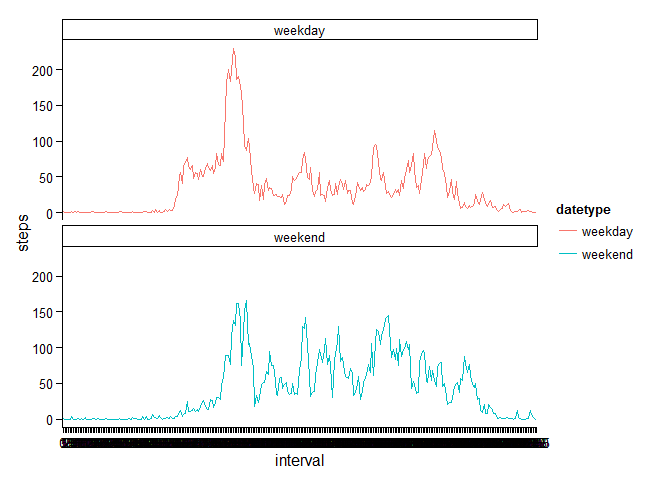
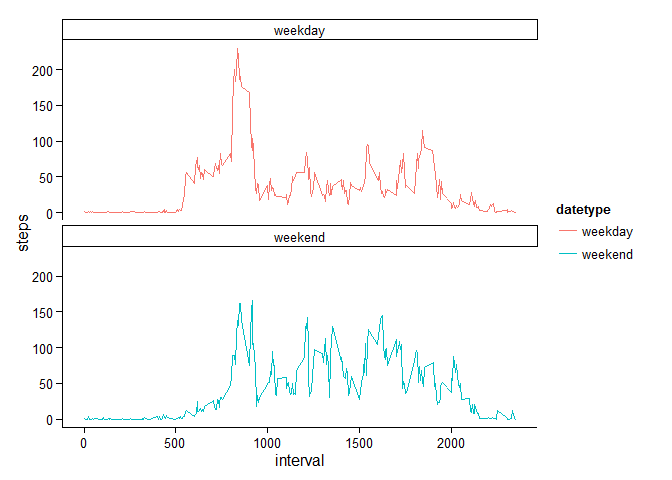
minor change
removed the change of intervals to factors, as they were unnecessary

diff --git a/PA1_template.html b/PA1_template.html
@@ -77,9 +77,8 @@ require(dplyr)
 require(ggplot2)</code></pre>
 <p>Reading in the zipped data directly from the repo:</p>
 <pre class="r"><code>data &lt;- read.csv(unz(&quot;activity.zip&quot;, &quot;activity.csv&quot;))</code></pre>
-<p>and changing the date column to dates (using the ymd function from lubridate) and converting the intervals to factors:</p>
-<pre class="r"><code>data$date &lt;- ymd(data$date)
-data$interval &lt;- as.factor(data$interval)</code></pre>
+<p>and changing the date column to dates (using the ymd function from lubridate):</p>
+<pre class="r"><code>data$date &lt;- ymd(data$date)</code></pre>
 <p>(the intervals are coded in the following way: last two digits represent minutes into the hour beginning indicates the hour of the day;<br />0am –&gt; 0 to 55;<br />11pm: 2300 to 2355)</p>
 </div>
 <div id="what-is-mean-total-number-of-steps-taken-per-day" class="section level2">
@@ -107,7 +106,7 @@ hist(stepsperday$steps,
         group_by(interval) %&gt;%
         summarise(avg_steps = mean(steps, na.rm = T))</code></pre>
 <p>We can then plot the number of steps per interval:</p>
-<pre class="r"><code>plot(x= as.numeric(as.character(stepsperinterval$interval)),
+<pre class="r"><code>plot(x= stepsperinterval$interval,
      y= stepsperinterval$avg_steps, 
      type = &quot;l&quot;,
      main = &quot;number of steps during an average day&quot;,
@@ -122,22 +121,21 @@ axis(side = 1, at = seq(0, 2400, by = 100))</code></pre>
 indexmaxinterval</code></pre>
 <pre><code>## [1] 104</code></pre>
 <pre class="r"><code>stepsperinterval$interval[indexmaxinterval]</code></pre>
-<pre><code>## [1] 835
-## 288 Levels: 0 5 10 15 20 25 30 35 40 45 50 55 100 105 110 115 120 ... 2355</code></pre>
+<pre><code>## [1] 835</code></pre>
 <p>Hence, at the 104th’s interval, corresponding to 835, at 8:35 am, most steps are taken on average.</p>
 </div>
 <div id="imputing-missing-values" class="section level2">
 <h2>Imputing missing values</h2>
 <p><code>summary(data)</code> shows that 2304 values are missing:</p>
 <pre class="r"><code>summary(data)</code></pre>
-<pre><code>##      steps             date               interval    
-##  Min.   :  0.00   Min.   :2012-10-01   0      :   61  
-##  1st Qu.:  0.00   1st Qu.:2012-10-16   5      :   61  
-##  Median :  0.00   Median :2012-10-31   10     :   61  
-##  Mean   : 37.38   Mean   :2012-10-31   15     :   61  
-##  3rd Qu.: 12.00   3rd Qu.:2012-11-15   20     :   61  
-##  Max.   :806.00   Max.   :2012-11-30   25     :   61  
-##  NA's   :2304                          (Other):17202</code></pre>
+<pre><code>##      steps             date               interval     
+##  Min.   :  0.00   Min.   :2012-10-01   Min.   :   0.0  
+##  1st Qu.:  0.00   1st Qu.:2012-10-16   1st Qu.: 588.8  
+##  Median :  0.00   Median :2012-10-31   Median :1177.5  
+##  Mean   : 37.38   Mean   :2012-10-31   Mean   :1177.5  
+##  3rd Qu.: 12.00   3rd Qu.:2012-11-15   3rd Qu.:1766.2  
+##  Max.   :806.00   Max.   :2012-11-30   Max.   :2355.0  
+##  NA's   :2304</code></pre>
 <p>The assigned task was to replace the missing values with computed values.<br />I decided to use the mean of the interval to fill in the NAs:</p>
 <pre class="r"><code>data2 &lt;- data
 for(i in 1:length(data2$steps)){
@@ -180,13 +178,13 @@ for(i in 1:length(data2$date)){
         theme_classic()+
         facet_wrap(~datetype, ncol = 1)
 g</code></pre>
[2 lines of base64/hex data omitted]
 <p>Alternatively, here is an overlay plot:</p>
 <pre class="r"><code>g &lt;- ggplot(data = stepsperday3, aes(x=interval, y=steps, group = datetype, color= datetype)) +
         geom_line()+
         theme_classic()
 g</code></pre>
[2 lines of base64/hex data omitted]
 <p>We see that the early activity before the peak at 8:35 am is much less pronounced. However, the peak of walking activity on weekends is still frightingly close to that on weekdays. This guy likes to move at between 8:30 am and 9:00 am!</p>
 </div>
 

diff --git a/PA1_template.md b/PA1_template.md
@@ -22,14 +22,13 @@ Reading in the zipped data directly from the repo:
 data <- read.csv(unz("activity.zip", "activity.csv"))
 ```
 
-and changing the date column to dates (using the ymd function from lubridate)
-and converting the intervals to factors:  
+and changing the date column to dates (using the ymd function from lubridate):
 
 
 ```r
 data$date <- ymd(data$date)
-data$interval <- as.factor(data$interval)
 ```
+  
 (the intervals are coded in the following way:
 last two digits represent minutes into the hour
 beginning indicates the hour of the day;  
@@ -92,7 +91,7 @@ stepsperinterval <- data %>%
 We can then plot the number of steps per interval:
 
 ```r
-plot(x= as.numeric(as.character(stepsperinterval$interval)),
+plot(x= stepsperinterval$interval,
      y= stepsperinterval$avg_steps, 
      type = "l",
      main = "number of steps during an average day",
@@ -123,7 +122,6 @@ stepsperinterval$interval[indexmaxinterval]
 
 ```
 ## [1] 835
-## 288 Levels: 0 5 10 15 20 25 30 35 40 45 50 55 100 105 110 115 120 ... 2355
 ```
 Hence, at the 104th's interval, corresponding to
 835, at 8:35 am, most steps are
@@ -138,14 +136,14 @@ summary(data)
 ```
 
 ```
-##      steps             date               interval    
-##  Min.   :  0.00   Min.   :2012-10-01   0      :   61  
-##  1st Qu.:  0.00   1st Qu.:2012-10-16   5      :   61  
-##  Median :  0.00   Median :2012-10-31   10     :   61  
-##  Mean   : 37.38   Mean   :2012-10-31   15     :   61  
-##  3rd Qu.: 12.00   3rd Qu.:2012-11-15   20     :   61  
-##  Max.   :806.00   Max.   :2012-11-30   25     :   61  
-##  NA's   :2304                          (Other):17202
+##      steps             date               interval     
+##  Min.   :  0.00   Min.   :2012-10-01   Min.   :   0.0  
+##  1st Qu.:  0.00   1st Qu.:2012-10-16   1st Qu.: 588.8  
+##  Median :  0.00   Median :2012-10-31   Median :1177.5  
+##  Mean   : 37.38   Mean   :2012-10-31   Mean   :1177.5  
+##  3rd Qu.: 12.00   3rd Qu.:2012-11-15   3rd Qu.:1766.2  
+##  Max.   :806.00   Max.   :2012-11-30   Max.   :2355.0  
+##  NA's   :2304
 ```
 
 The assigned task was to replace the missing values with computed values.  
